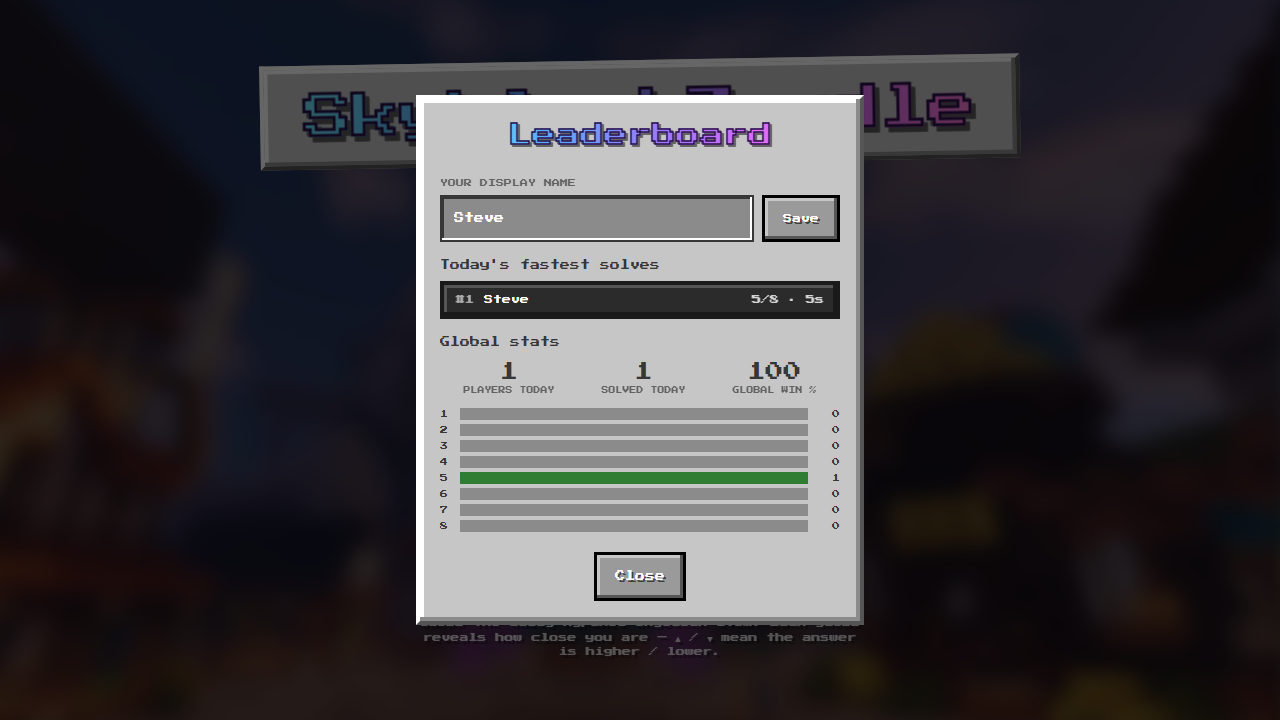
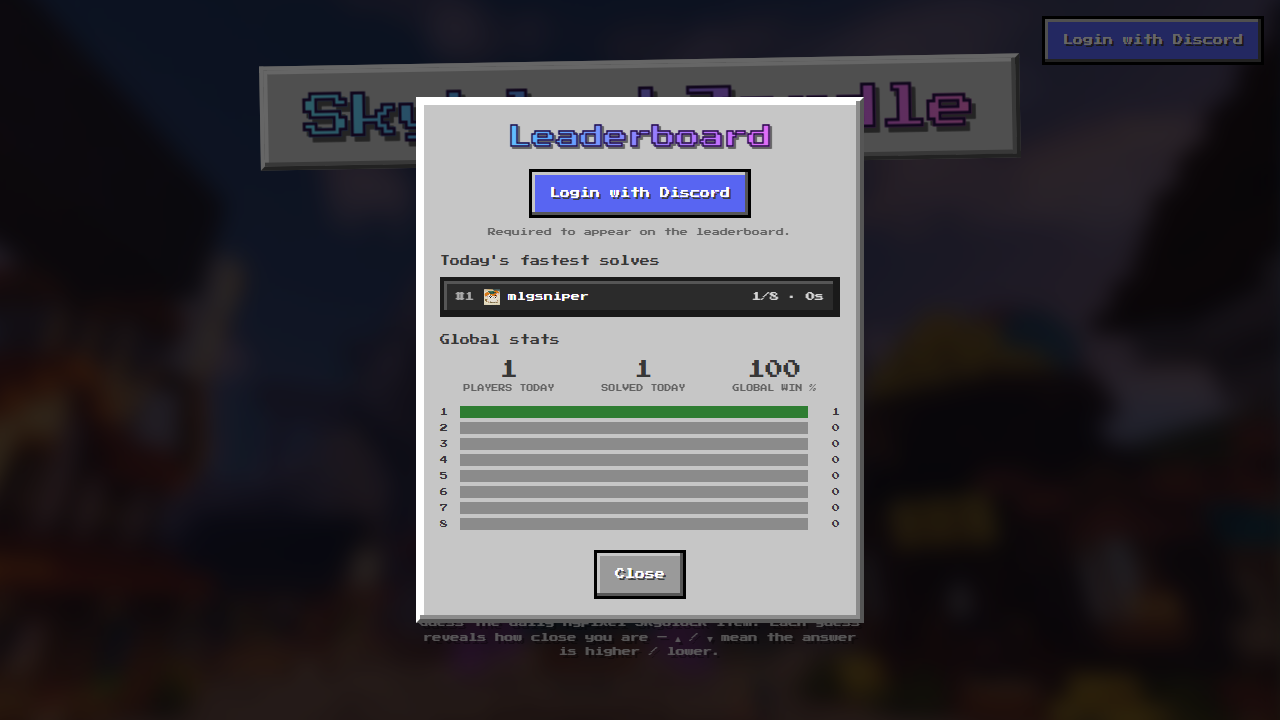
add live link and aws stack to readme

diff --git a/README.md b/README.md
@@ -1,5 +1,7 @@
 # SkyblockZordle
 
+### ▶ Play it: **[skyblockzordle](https://d3htnxjhk2w7e2.cloudfront.net)**
+
 A daily guessing game for **Hypixel Skyblock** items — like Wordle, but instead
 of five-letter words you're guessing swords, wands, bows, and tools.
 
@@ -27,7 +29,7 @@ with friends.
 - **Collections** — browse all the items and their stats
 - **Stats & streaks** — games played, win rate, current and max streak
 - **Share** — copy a spoiler-free emoji grid of your result
-- **Global leaderboard** — the day's fastest solves
+- **Global leaderboard** — the day's fastest solves, sign in with Discord to compete
 
 ## Screenshots
 
@@ -42,10 +44,23 @@ with friends.
 
 ## Built with
 
-React · Vite · Tailwind CSS · Express
+- **Frontend** — React · Vite · Tailwind CSS
+- **Backend** — AWS Lambda · DynamoDB · CloudFront + S3 · AWS SAM (infrastructure as code)
 
-The daily answer is chosen and checked on the server, so it isn't sitting in the
-page for anyone to read.
+It runs entirely serverless: a Lambda Function URL for the API, DynamoDB for
+scores and sessions, and the site itself served from a private S3 bucket through
+CloudFront. The whole stack is defined in [`infra/template.yaml`](infra/template.yaml),
+so it deploys from a single command.
+
+### A couple of design notes
+
+**The answer never reaches your browser.** Guesses are checked on the server, so
+the daily item isn't sitting in the page for anyone to read.
+
+**Scores can't be faked.** The server counts your guesses itself and writes the
+leaderboard entry when it sees the winning guess — the browser never reports a
+score. Ranking requires signing in with Discord (OAuth2 handled in Lambda,
+sessions as signed tokens), so a leaderboard entry is tied to a real account.
 
 ---
 
